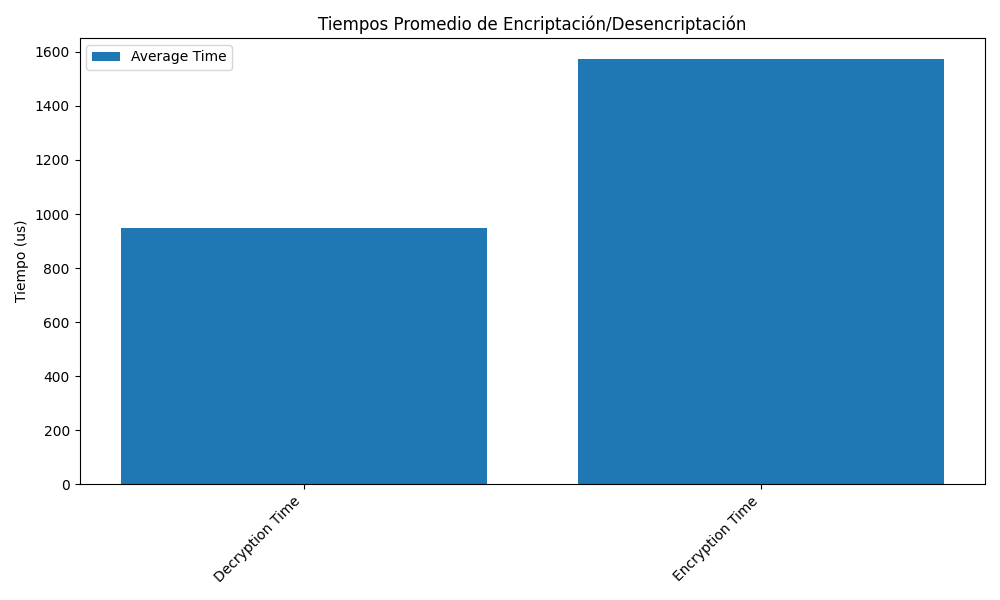
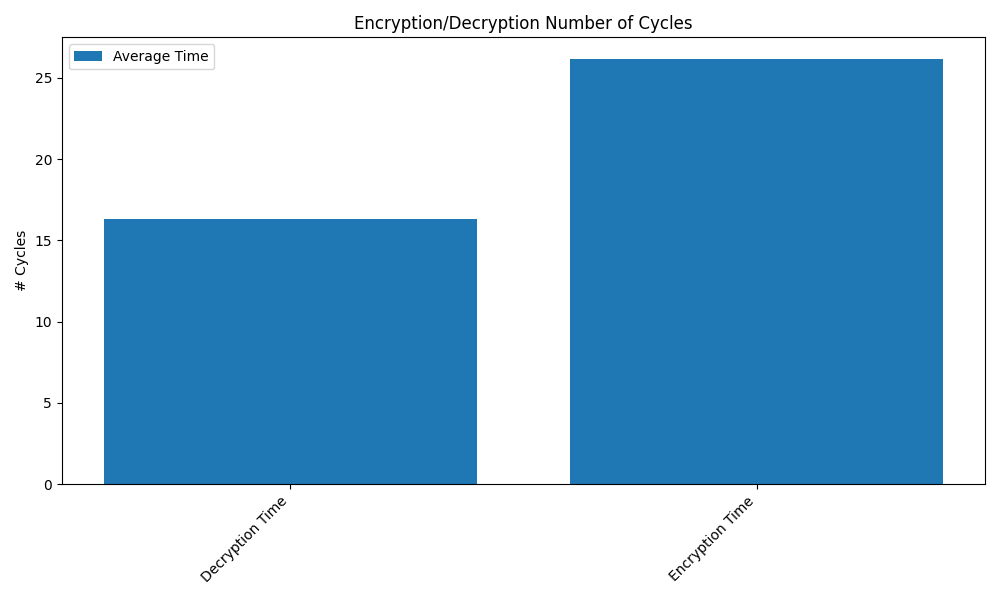
final

diff --git a/servidor_http/main_analysis.py b/servidor_http/main_analysis.py
@@ -7,9 +7,10 @@ import os
 def get_data():
     client = MongoClient("mongodb://localhost:27017")
     db = client["sensores"]
-    coll = db["mediciones"]
+    coll = db["mediciones2"]
     return list(coll.find())
 
+"""
 def convert_to_microseconds(time_val, unit):
     if unit.lower() == 'ms':
         return time_val * 1000
@@ -17,6 +18,7 @@ def convert_to_microseconds(time_val, unit):
         return time_val
     else:
         return time_val
+"""
 
 def main():
     data = get_data()
@@ -28,7 +30,7 @@ def main():
     for doc in data:
         t = doc.get("time")
         unit = doc.get("UnitMessure")
-        t_us = convert_to_microseconds(t, unit)
+        t_us = t
         doc["time_us"] = t_us
         processed.append(doc)
 
@@ -48,15 +50,6 @@ def main():
     microcontrollers = sorted(list(micro_set))
     medition_types = sorted(list(medition_set))
 
-    print("Métricas generales por Microcontrolador:")
-    metrics_micro = {}
-    for micro in microcontrollers:
-        times = grouped_micro[micro]
-        mean_val = np.mean(times)
-        std_val = np.std(times)
-        metrics_micro[micro] = (mean_val, std_val)
-        print(f"{micro}: Media = {mean_val:.2f} us, Desviación Estándar = {std_val:.2f} us")
-
     print("\nMétricas por Medición:")
     metrics_medition = {}
     for key, times in grouped_micro_medition.items():
@@ -64,7 +57,7 @@ def main():
         mean_val = np.mean(times)
         std_val = np.std(times)
         metrics_medition[key] = (mean_val, std_val)
-        print(f"{micro} - {medition}: Media = {mean_val:.2f} us, Desviación Estándar = {std_val:.2f} us")
+        print(f"{micro} - {medition}: Media = {mean_val:.2f} cycles, Desviación Estándar = {std_val:.2f} cycles")
 
     if not os.path.exists("measuresImages"):
         os.makedirs("measuresImages")
@@ -91,11 +84,11 @@ def main():
         
         ax.set_xticks(x)
         ax.set_xticklabels(medition_types_enc_dec, rotation=45, ha="right")
-        ax.set_ylabel("Tiempo (us)")
-        ax.set_title("Tiempos Promedio de Encriptación/Desencriptación")
+        ax.set_ylabel("# Cycles")
+        ax.set_title("Encryption/Decryption Number of Cycles")
         ax.legend()
         plt.tight_layout()
-        plt.savefig("measuresImages/enc_dec_avg_chart.png")
+        plt.savefig("measuresImages/enc_dec_avg_chart_cycles.png")
         plt.show()
 
     # Gráfico para métricas de claves
@@ -107,19 +100,26 @@ def main():
         x_key = np.arange(len(group_names))
         fig_key, ax_key = plt.subplots(figsize=(10, 6))
         bar_width_key = 0.8 / len(microcontrollers)
-        colors = {'UECC': '#1f77b4', 'Optimized': '#ff7f0e', 'Public': '#2ca02c'}
+        colors = {'UECC': '#7befd5', 'Optimized': '#ff7f0e', 'Public': '#2ca02c'}
         
         shared_means = {}
         public_means = {}
+        temp_public = {}
+        meanTime = 0;
+
+        for micro in microcontrollers:
+            temp_public = grouped_micro_medition.get((micro, 'Public Private Key Time'), [])
+            meanTime = np.mean(temp_public) if temp_public else 0 + meanTime;
+
         
         for micro in microcontrollers:
             uecc_times = grouped_micro_medition.get((micro, 'UECC Shared Key Time'), [])
             optimized_times = grouped_micro_medition.get((micro, 'Optimized Shared Key Time'), [])
-            public_times = grouped_micro_medition.get((micro, 'Public Private Key Time'), [])
             
-            shared_means[micro] = (np.mean(uecc_times) if uecc_times else 0,
-                                   np.mean(optimized_times) if optimized_times else 0)
-            public_means[micro] = np.mean(public_times) if public_times else 0
+            shared_means[micro] = ((np.mean(uecc_times) if uecc_times else 0),
+                                   (np.mean(optimized_times) if optimized_times else 0))
+            public_means[micro] = meanTime
+
         
         for i, micro in enumerate(microcontrollers):
             offset = (i - len(microcontrollers)/2) * bar_width_key + bar_width_key/2
@@ -128,7 +128,7 @@ def main():
             
             # Barras apiladas para Shared Key
             ax_key.bar(x_key[0] + offset, uecc_mean, bar_width_key, color=colors['UECC'], 
-                      label='UECC' if i == 0 else "")
+                      label='Shared' if i == 0 else "")
             ax_key.bar(x_key[0] + offset, optimized_mean, bar_width_key, 
                       bottom=uecc_mean, color=colors['Optimized'], label='Optimized' if i == 0 else "")
             
@@ -138,15 +138,19 @@ def main():
         
         ax_key.set_xticks(x_key)
         ax_key.set_xticklabels(group_names, rotation=45, ha="right")
-        ax_key.set_ylabel("Tiempo (us)")
-        ax_key.set_title("Tiempos de Operaciones con Claves por Microcontrolador")
+        ax_key.set_ylabel("T# Cycles")
+        ax_key.set_title("Keys Generation Number of Cycles")
+
+        # Evitar notación científica en el eje Y
+        ax_key.ticklabel_format(style='plain', axis='y')
         
         handles, labels = ax_key.get_legend_handles_labels()
         unique_labels = dict(zip(labels, handles))
-        ax_key.legend(unique_labels.values(), unique_labels.keys())
+        ax_key.legend(unique_labels.values(), unique_labels.keys(), loc='upper left', bbox_to_anchor=(1, 1))
+
         
         plt.tight_layout()
-        plt.savefig("measuresImages/key_operations_chart.png")
+        plt.savefig("measuresImages/key_operations_chart_cycles.png")
         plt.show()
 
 

diff --git a/micro1/conexion_mqtt_micro_1/conexion_mqtt_1.py b/micro1/conexion_mqtt_micro_1/conexion_mqtt_1.py
@@ -4,7 +4,7 @@ import paho.mqtt.client as mqtt
 import threading
 
 # Configuración del puerto serial
-SERIAL_PORT = 'COM2'  # Cambia al puerto donde está conectado tu Arduino
+SERIAL_PORT = 'COM6'  # Cambia al puerto donde está conectado tu Arduino
 BAUDRATE = 57600
 serial_port = serial.Serial(SERIAL_PORT, baudrate=BAUDRATE, timeout=1)
 

diff --git a/micro2/conexion_mqtt_micro_2/conexion_mqtt_2.py b/micro2/conexion_mqtt_micro_2/conexion_mqtt_2.py
@@ -4,7 +4,7 @@ import paho.mqtt.client as mqtt
 import threading
 
 # Configuración del puerto serial
-SERIAL_PORT = 'COM4'  # Cambia al puerto donde está conectado tu Arduino
+SERIAL_PORT = 'COM5'  # Cambia al puerto donde está conectado tu Arduino
 BAUDRATE = 57600
 serial_port = serial.Serial(SERIAL_PORT, baudrate=BAUDRATE, timeout=1)
 

diff --git a/servidor_http/main.py b/servidor_http/main.py
@@ -8,4 +8,4 @@ app.include_router(router)
 if __name__ == "__main__":
     import uvicorn
     print("Servidor corriendo en http://localhost:3080")
-    uvicorn.run(app, host="localhost", port=3080, log_level="info")    
+    uvicorn.run(app, host="localhost", port=3080, log_level="info") 

diff --git a/servidor_http/repository.py b/servidor_http/repository.py
@@ -3,7 +3,7 @@ from model import MeditionData
 
 MONGO_URI = "mongodb://localhost:27017"
 DATABASE_NAME = "sensores"
-COLLECTION_NAME = "mediciones"
+COLLECTION_NAME = "mediciones2"
 
 client = AsyncIOMotorClient(MONGO_URI)
 db = client[DATABASE_NAME]
